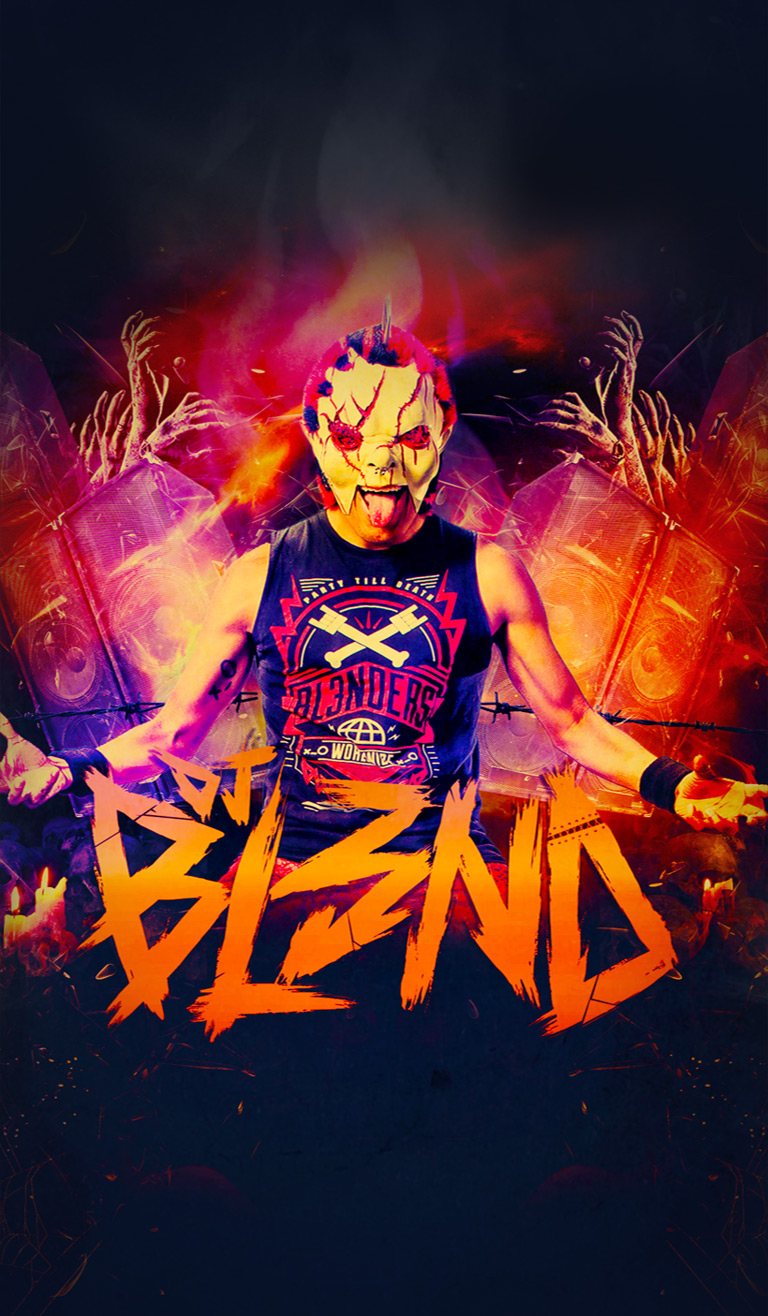
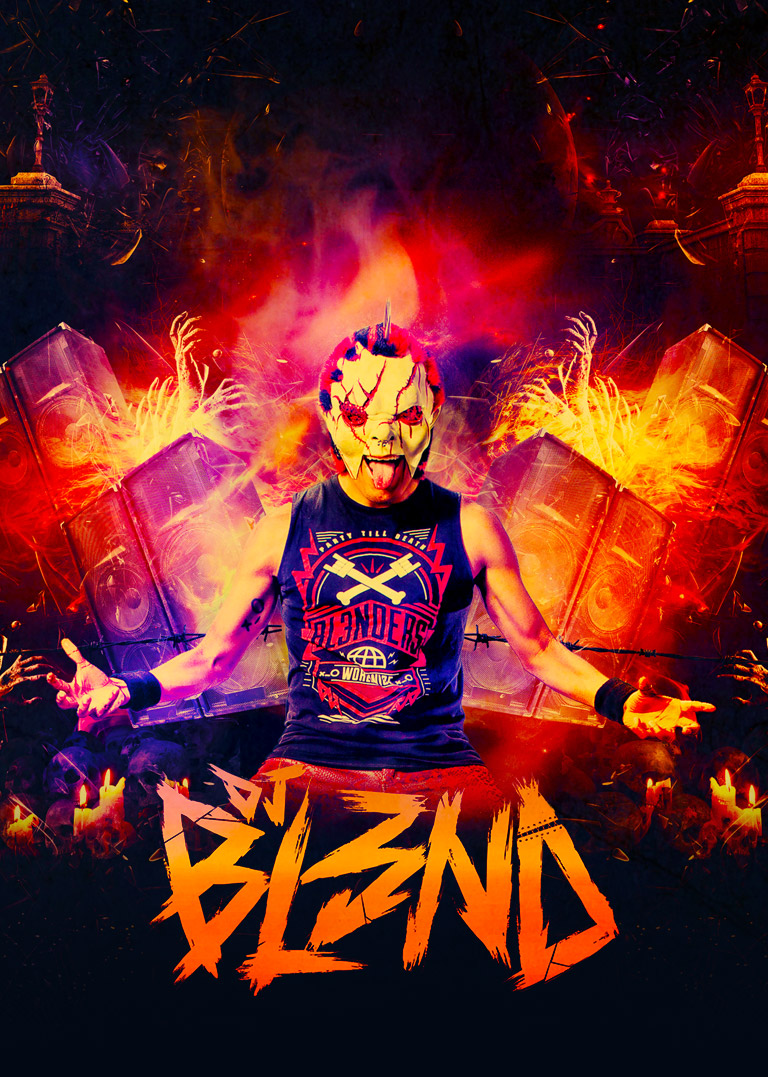
Changed header image

diff --git a/static/styles/src/header.less b/static/styles/src/header.less
@@ -1,5 +1,5 @@
 header{
-  min-height: 500px;
+  min-height: 650px;
   text-align: center;
 
   @media @phone-landscape {
@@ -7,7 +7,7 @@ header{
   }
 
   @media @tablet {
-    min-height: 750px;
+    min-height: 700px;
   }
 
   @media @large-desktop {
@@ -15,7 +15,7 @@ header{
   }
 
   @media @tv {
-    min-height: 1300px;
+    min-height: 1400px;
   }
 
   .presenter-logos {

diff --git a/static/styles/src/site-background.less b/static/styles/src/site-background.less
@@ -1,7 +1,7 @@
 body{
   background-image: url("@{coreImagesUrl}/header-bg-480.jpg");
-  background-color: #090f21;
-  min-height: 1316px;
+  background-color: #020814;
+  min-height: 1077px;
 
   @media @phone-landscape {
     background-image: url("@{coreImagesUrl}/header-bg-768.jpg");

diff --git a/static/styles/src/content.less b/static/styles/src/content.less
@@ -13,6 +13,7 @@
       font-family: "Playfair Display", serif;
       font-weight: 700;
       text-transform: none;
+      word-break: break-all;
     }
 
     hr{
